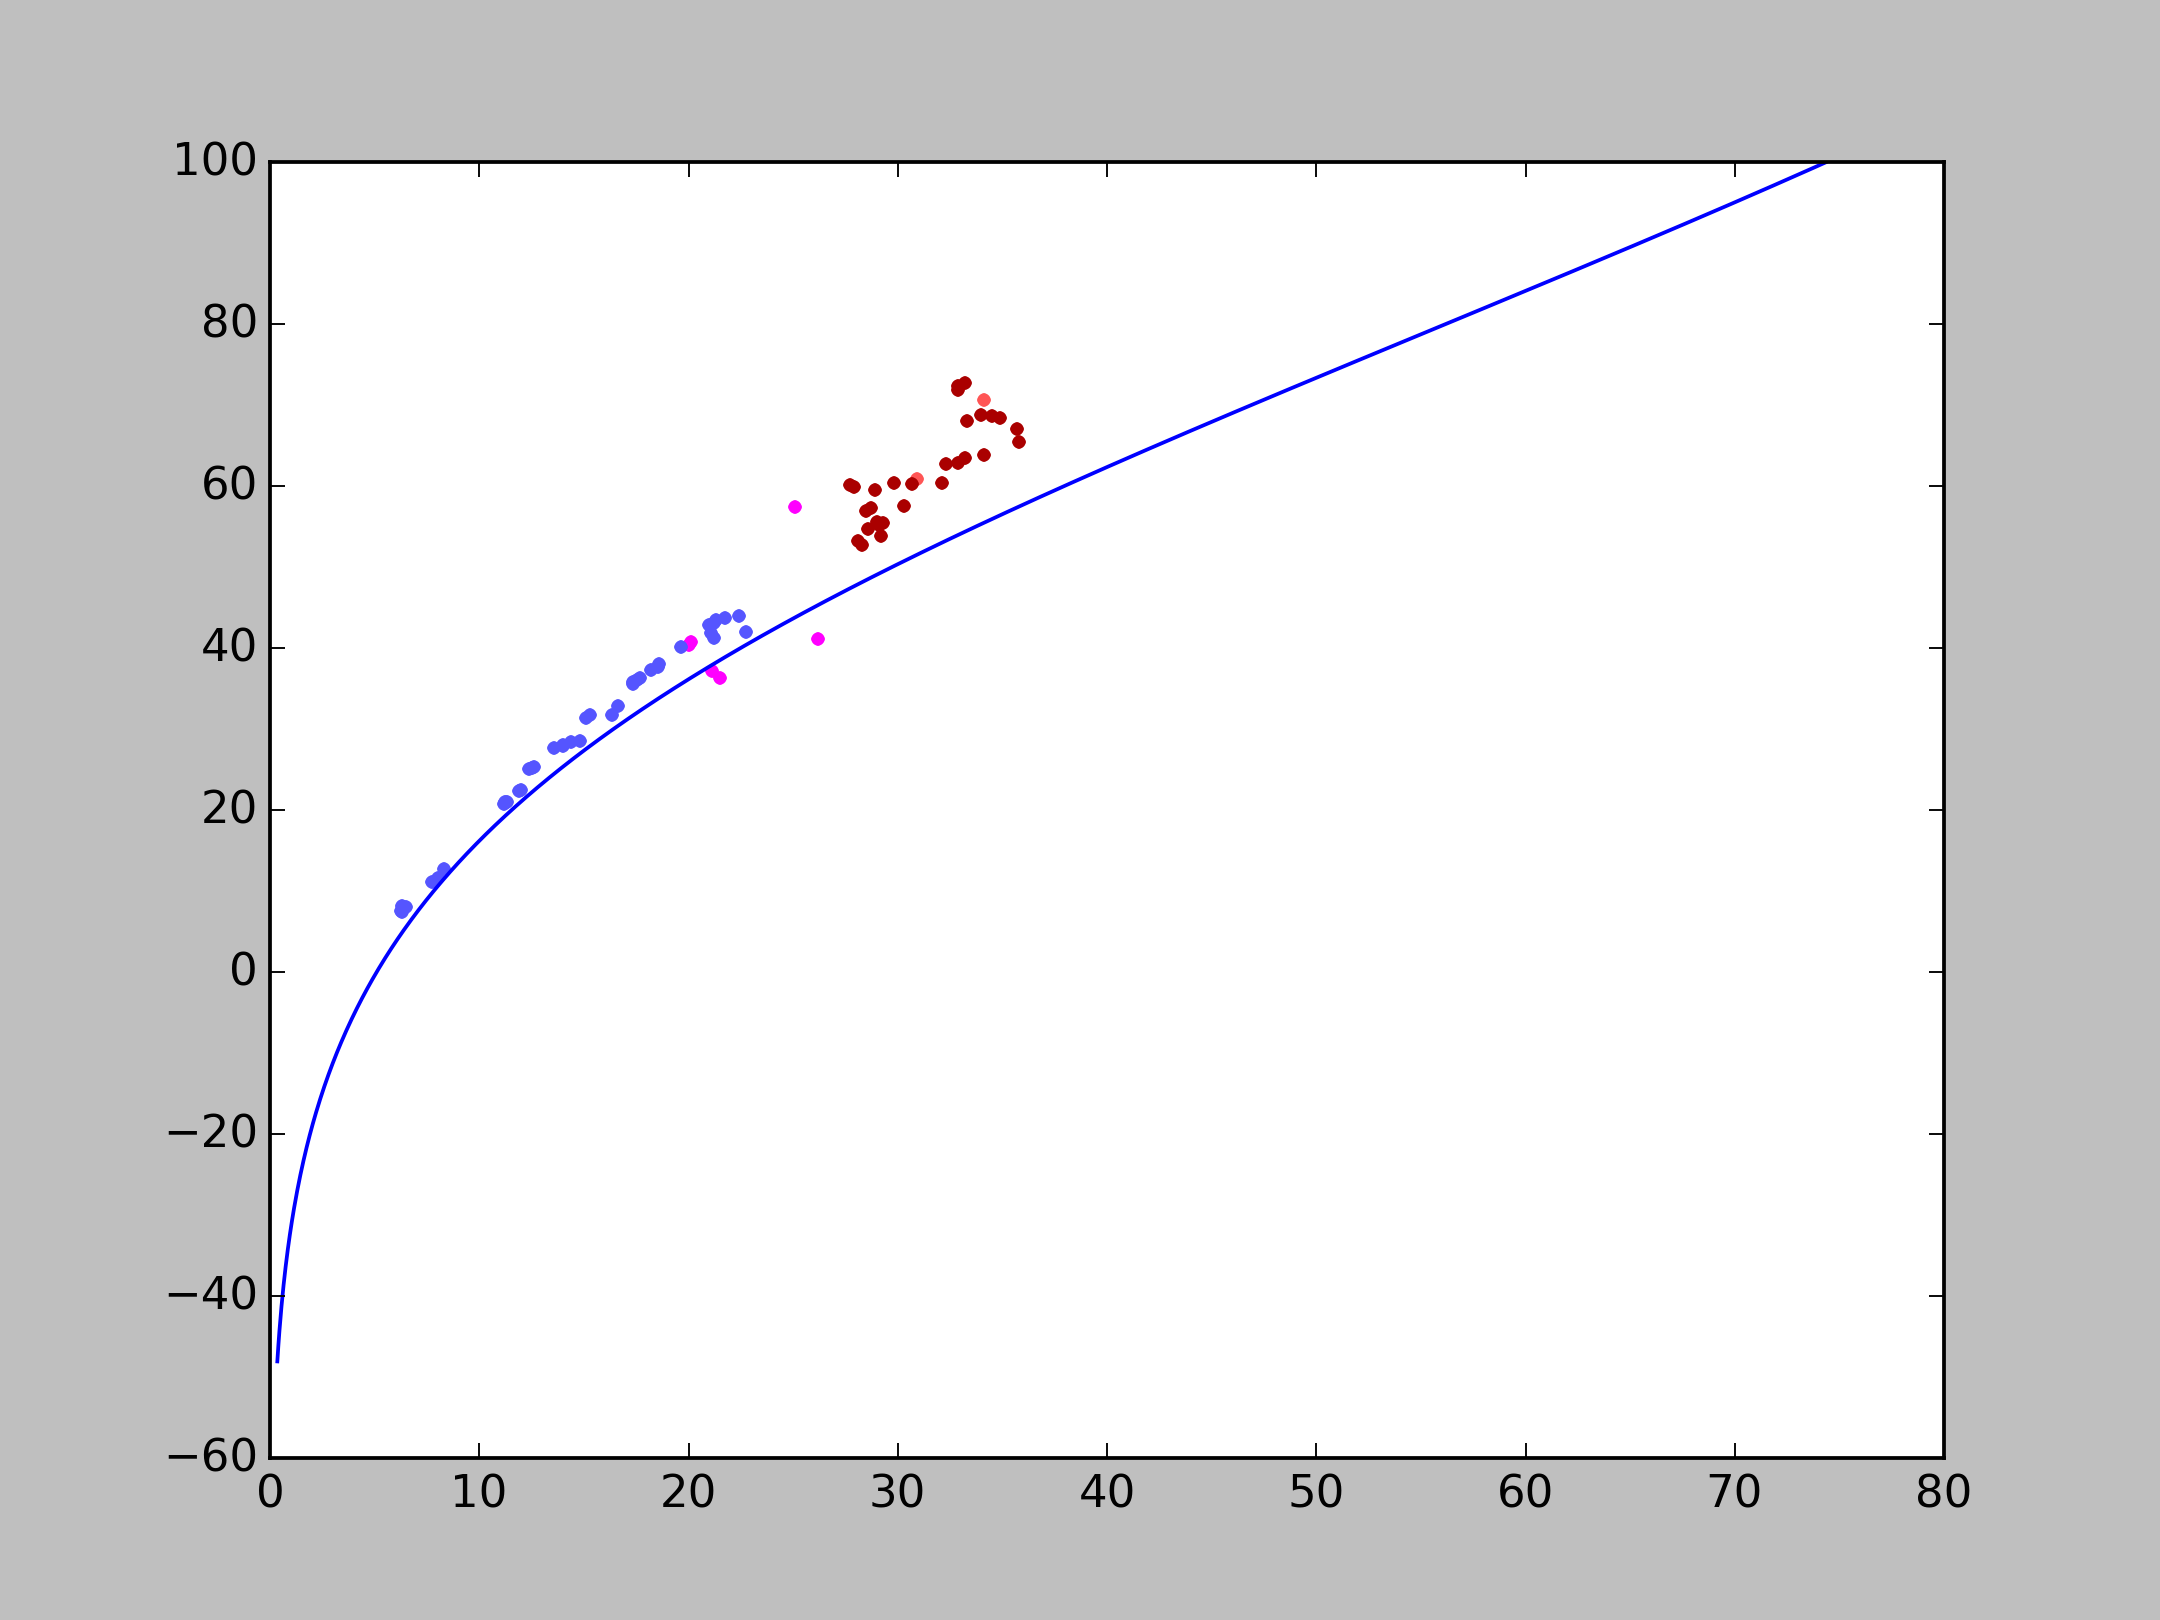
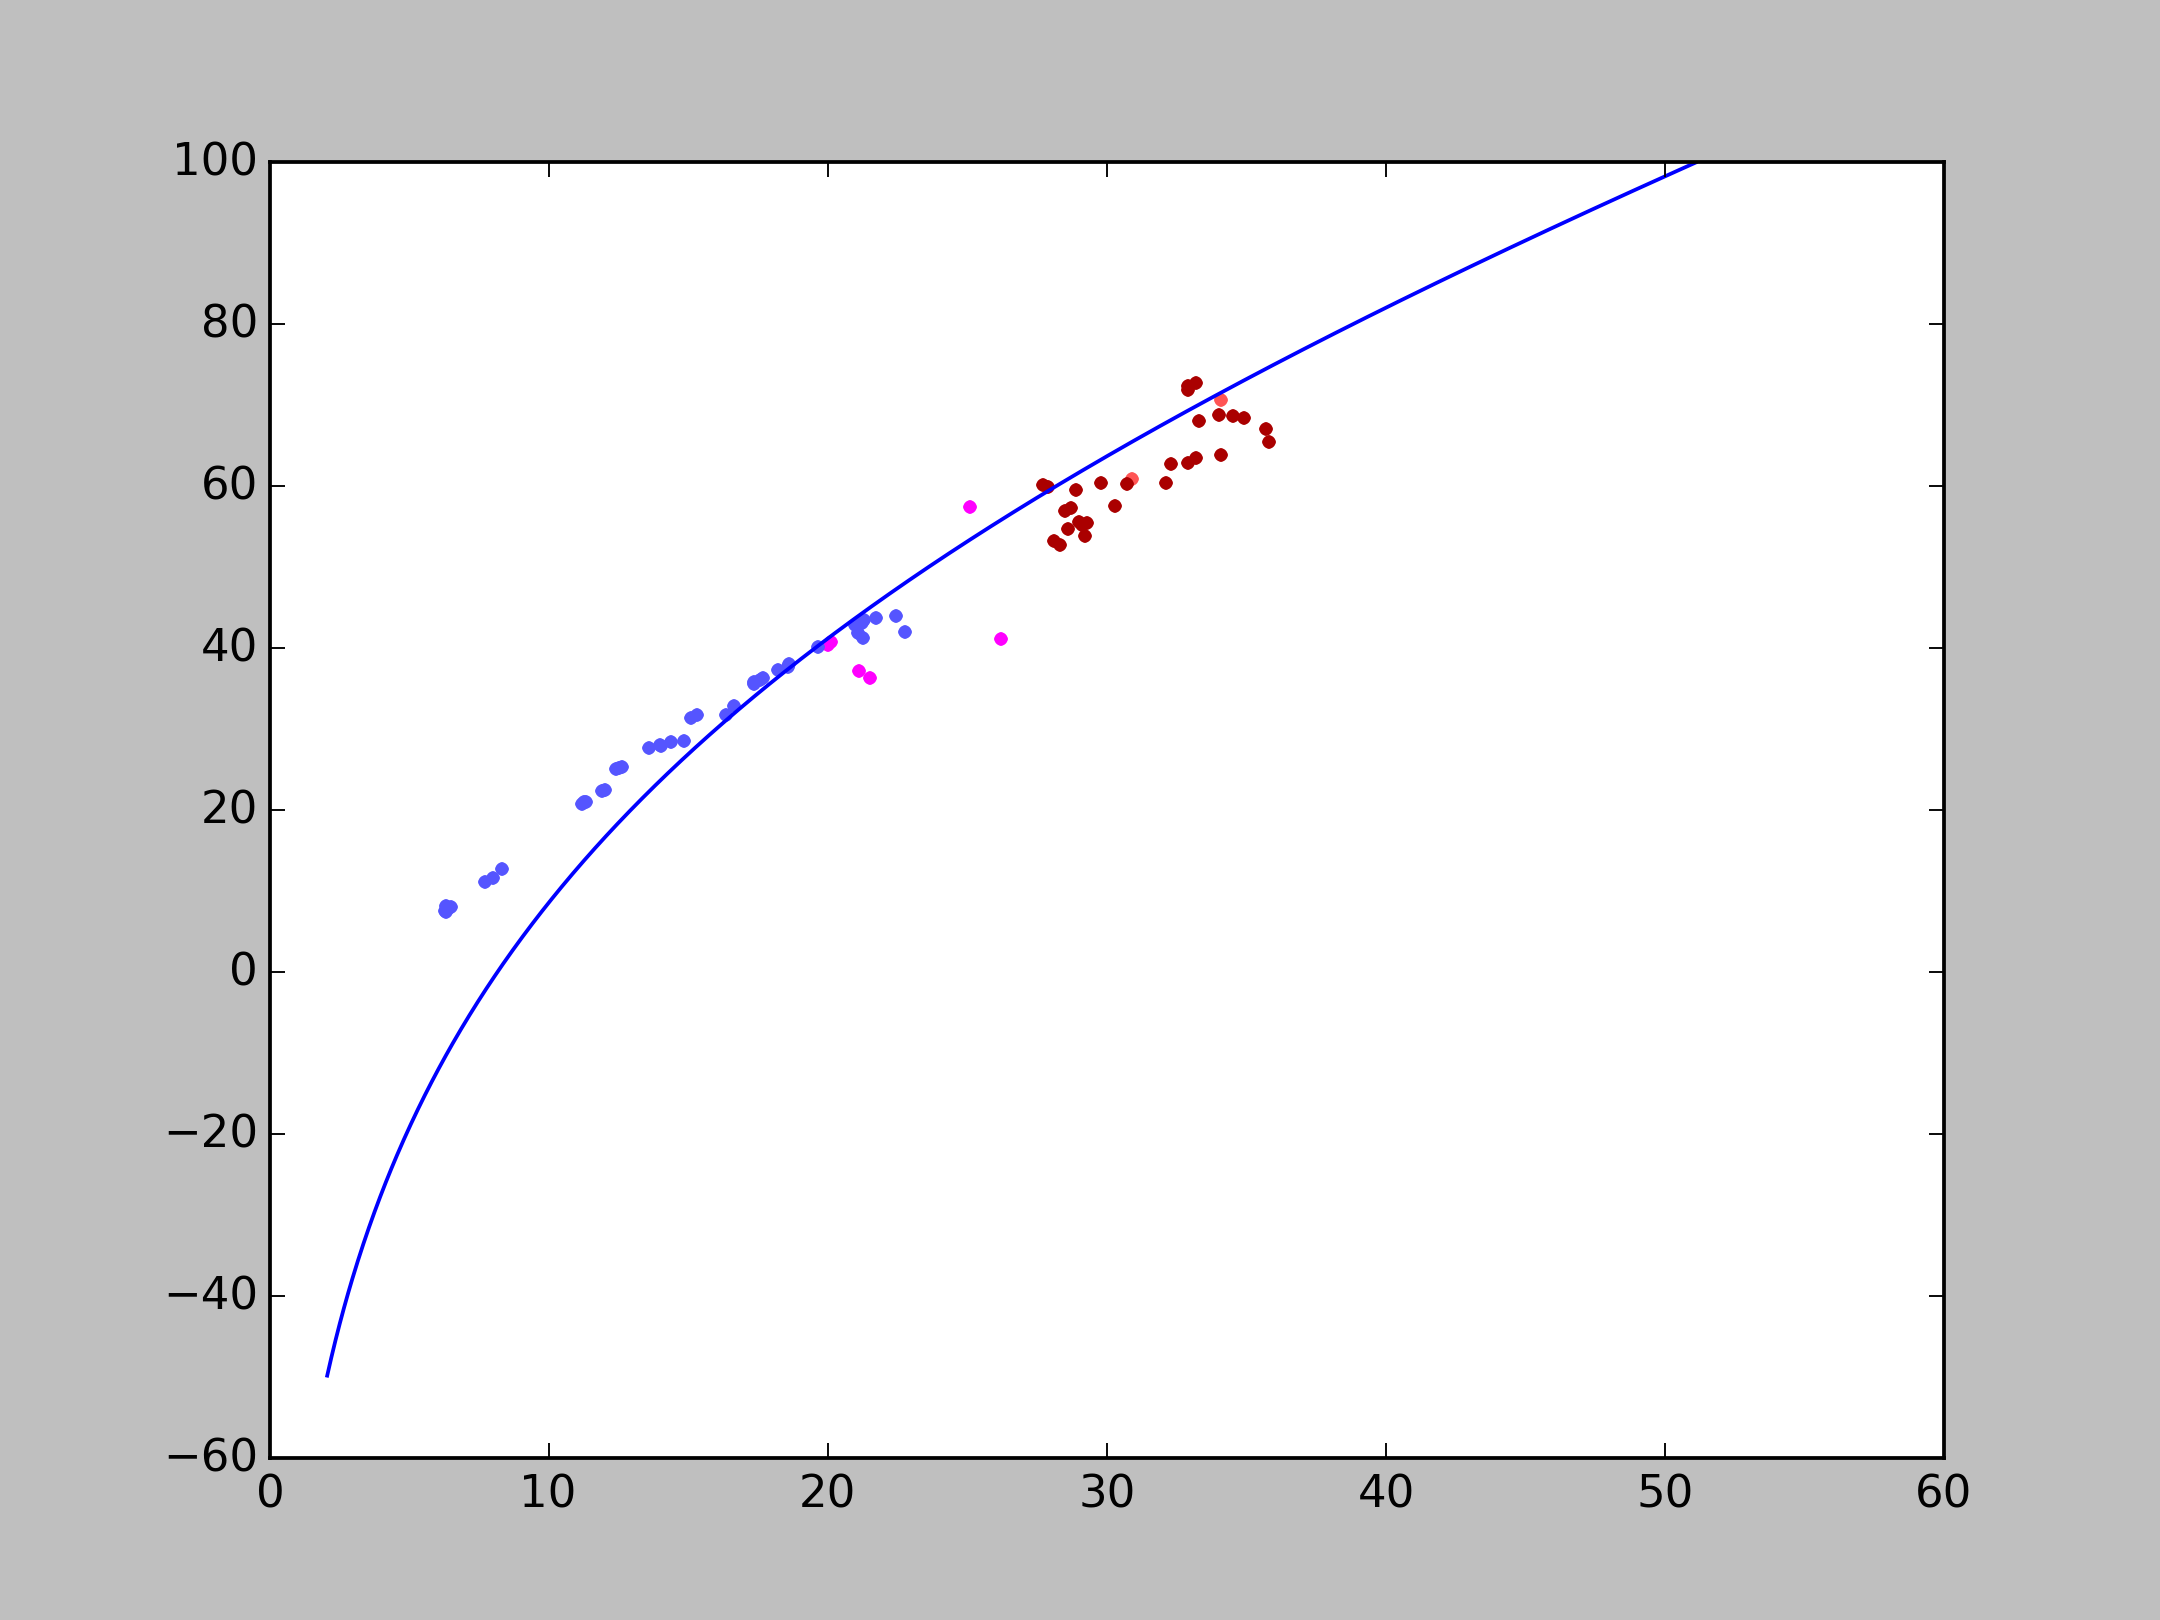
Working on a numerical calibration method

diff --git a/thermometer-calibration/calibrate.py b/thermometer-calibration/calibrate.py
@@ -1,0 +1,57 @@
+#!/usr/bin/python
+
+import math
+import pprint
+import sys
+
+def temperature(f, constants):
+    A, B, C, D, E = [constants[key] for key in 'ABCDE']
+    R = D/f - E
+    T = 1/(A + B*math.log(R) + C*math.log(R)**3)
+    return T-273.15
+
+def calc_error(constants, data):
+    return sum([(T-temperature(f, constants))**2 for f, T in data])
+
+def improve(data, initial, runs, step):
+    constants = initial.copy()
+    n = 0
+    while n < runs:
+        n += 1
+        for key in 'ABCD':
+            original = constants[key]
+            errors = []
+            for multiplier in (1.0 - step, 1.0, 1.0 + step):
+                value = original * multiplier
+                constants[key] = value
+                error = calc_error(constants, data)
+                errors.append((value, error))
+            errors.sort(key=lambda x: x[1])
+            constants[key] = errors[0][0]
+            sys.stderr.write('Run {}: {}={:.10f}, \terror: {:.10f}\n'.format(
+                n, key, value, errors[0][1]
+            ))
+    return constants 
+
+def main():
+    data = [(float(f), float(T)) for f, T, _ in eval(open('data.py').read())]
+    constants = {
+        #1/T = A + B*ln(R) + C*ln(R)^3      # Steinhart-Hart
+        #R = (1/f)D - E
+        #D = 1/(2*ln(2)*C1) # C1 is the capacitor
+        #E = R2/2           # R2 is the other resistor (between discharge and VDD)
+        'A': 6.997 *10**-4, # Beta to Steinhart-Hart
+        'B': 2.882 *10**-4, # Beta to Steinhart-Hart
+       #'C': 0,             # Beta to Steinhart-Hart
+        'C': 1.0 *10**-5.5, # Need to have something
+        'D': 1.5 *10**5,    # 4.7 uF
+        'E': 1.1 *10**3,    # 2.2 kOhm
+    }
+    constants = improve(data, constants, 100, 0.01)
+    f = open('calibration.out', 'w')
+    f.write(pprint.pformat(constants))
+    f.close()
+
+if __name__ == '__main__':
+    main()
+

diff --git a/thermometer-calibration/plot.py b/thermometer-calibration/plot.py
@@ -5,18 +5,24 @@ from matplotlib.figure import Figure
 import numpy
 import math
 
-def beta(cold=-50., hot=100., frequency_step=.05):
-    a = 3470.
-    b = 1100.
-    c = 139.574
-    d = 2.4281
+def approx(cold=-50., hot=100., frequency_step=.05):
+    constants = {'A': 0.0007251313349840727,
+     'B': 0.00017970001880764384,
+      'C': 1.1574958957074605e-06,
+       'D': 182297.81778392274,
+        'E': 1100.0}
+        
+  
+    A, B, C, D, E = [constants[key] for key in 'ABCDE']
     
     f_list = []
     T_list = []
     f = 0.0
     while True:
         f += frequency_step
-        T = a/(math.log(-b*(f-c)/f) + d) - 273.15
+        R = D/f - E
+        T = 1.0/(A + B*math.log(R) + C*math.log(R)**3)
+        T -= 273.15
         if T < cold:
             continue
         if T > hot:
@@ -40,7 +46,7 @@ def main():
     }
     for f, T, key in data:
         ax.plot(float(f), float(T), marker='.', color=colors[key])
-    ax.plot(*beta())
+    ax.plot(*approx())
     fig.set_dpi(270)
     canvas.print_png('plot.png')
 
